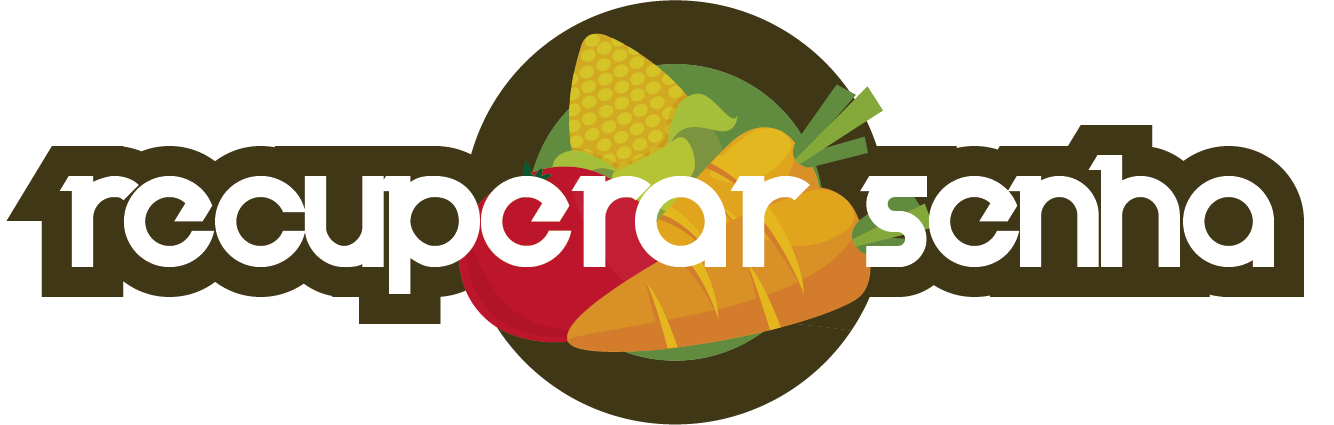
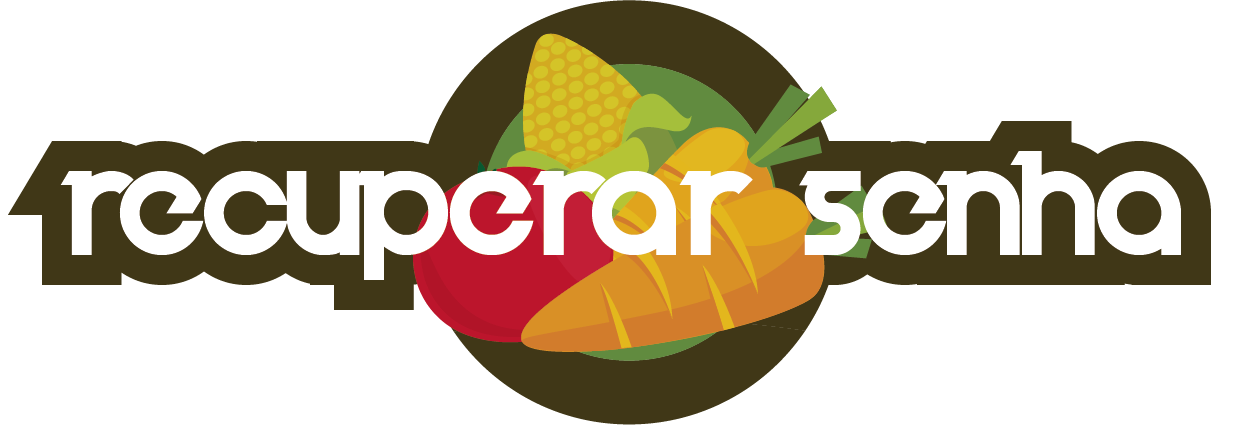
Exemplos de imagem - home

diff --git a/resources/views/home.blade.php b/resources/views/home.blade.php
@@ -37,24 +37,24 @@
         </ol>
         <div class="carousel-inner" role="listbox">
           <!-- Slide One - Set the background image for this slide in the line below -->
-          <div class="carousel-item active" style="background-image: url('http://placehold.it/1900x1080')">
+          <div class="carousel-item active" style="background-image: url('https://sportlife.com.br/wp-content/uploads/2017/09/benef%C3%ADcios-da-ma%C3%A7%C3%A3-para-o-corpo-humano-iloveimg-resized.jpg')">
             <div class="carousel-caption d-none d-md-block">
-              <h3>First Slide</h3>
-              <p>This is a description for the first slide.</p>
+              <h3>Produto 1</h3>
+              <p>Descrição blá blá blá</p>
             </div>
           </div>
           <!-- Slide Two - Set the background image for this slide in the line below -->
-          <div class="carousel-item" style="background-image: url('http://placehold.it/1900x1080')">
+          <div class="carousel-item" style="background-image: url('https://www.greenme.com.br/images/usos-beneficios/alface-beneficios.jpg')">
             <div class="carousel-caption d-none d-md-block">
-              <h3>Second Slide</h3>
-              <p>This is a description for the second slide.</p>
+              <h3>Produto 2</h3>
+              <p>Descrição blá blá blá</p>
             </div>
           </div>
           <!-- Slide Three - Set the background image for this slide in the line below -->
-          <div class="carousel-item" style="background-image: url('http://placehold.it/1900x1080')">
+          <div class="carousel-item" style="background-image: url('https://sfagro.uol.com.br/wp-content/uploads/2016/05/1005_tomate.jpg')">
             <div class="carousel-caption d-none d-md-block">
-              <h3>Third Slide</h3>
-              <p>This is a description for the third slide.</p>
+              <h3>Produto 3</h3>
+              <p>Descrição blá blá blá</p>
             </div>
           </div>
         </div>
@@ -82,6 +82,7 @@
           @include('card')
         </div>
     </div>
+    <hr>
     <!-- Page Content >
     <section class="py-5">
       <div class="container">

diff --git a/resources/views/header.blade.php b/resources/views/header.blade.php
@@ -19,15 +19,14 @@
         </div>
         <div class="collapse navbar-collapse" id="navbarResponsive">
             <ul class="navbar-nav ml-auto">
-                
-                <li class="nav-item">
-                    <a class="nav-link js-scroll-trigger" href="#carrinho">
-                        <i class="fa fa-cart-plus fa-2x" aria-hidden="true"></i>
+            <li class="nav-item">
+                    <a class="nav-link js-scroll-trigger" href="#pesquisar">
+                        <i class="fa fa-search fa-2x" aria-hidden="true"></i>
                     </a>
                 </li>
                 <li class="nav-item">
-                    <a class="nav-link js-scroll-trigger" href="#pesquisar">
-                        <i class="fa fa-search fa-2x" aria-hidden="true"></i>
+                    <a class="nav-link js-scroll-trigger" href="#carrinho">
+                        <i class="fa fa-cart-plus fa-2x" aria-hidden="true"></i>
                     </a>
                 </li>     
                 <li class="nav-item">

diff --git a/resources/views/login.blade.php b/resources/views/login.blade.php
@@ -26,12 +26,8 @@
 	<link rel="stylesheet" type="text/css" href="css/main.css">
 <!--===============================================================================================-->
 </head>
-<<<<<<< HEAD
 <body>
 
-=======
-<body>	 
->>>>>>> 0703818507cae662c2dcbbfc1c083d38c03103d3
         
 	<div class="limiter">
 		<div class="container-login100" style="background-image: url({!! asset('image/ingred.png') !!});">
@@ -118,11 +114,7 @@
 <!--===============================================================================================-->
 	<script src="vendor/countdowntime/countdowntime.js"></script>
 <!--===============================================================================================-->
-<<<<<<< HEAD
 	<script src="js/main.js"></script>
 	@include('footer')
-=======
-	<script src="js/main.js"></script>	
->>>>>>> 0703818507cae662c2dcbbfc1c083d38c03103d3
 </body>
 </html>

diff --git a/resources/views/recsenha.blade.php b/resources/views/recsenha.blade.php
@@ -22,7 +22,7 @@
 		<div class="container-login100" style="background-image: url({!! asset('image/recsenha.jpg') !!});">
 			<div class="wrap-login100 p-l-55 p-r-55 p-t-65 p-b-54">
 				<form class="login100-form validate-form">
-					<center><img style=""  src="{!! asset('image/logoAdmin.png') !!}" height= "130"></center>
+					<center><img style=""  src="{!! asset('image/recsenha.png') !!}" height= "130"></center>
 					<span class="login100-form-title p-b-49" >					
 						<!--Entrar-->
 					</span>
